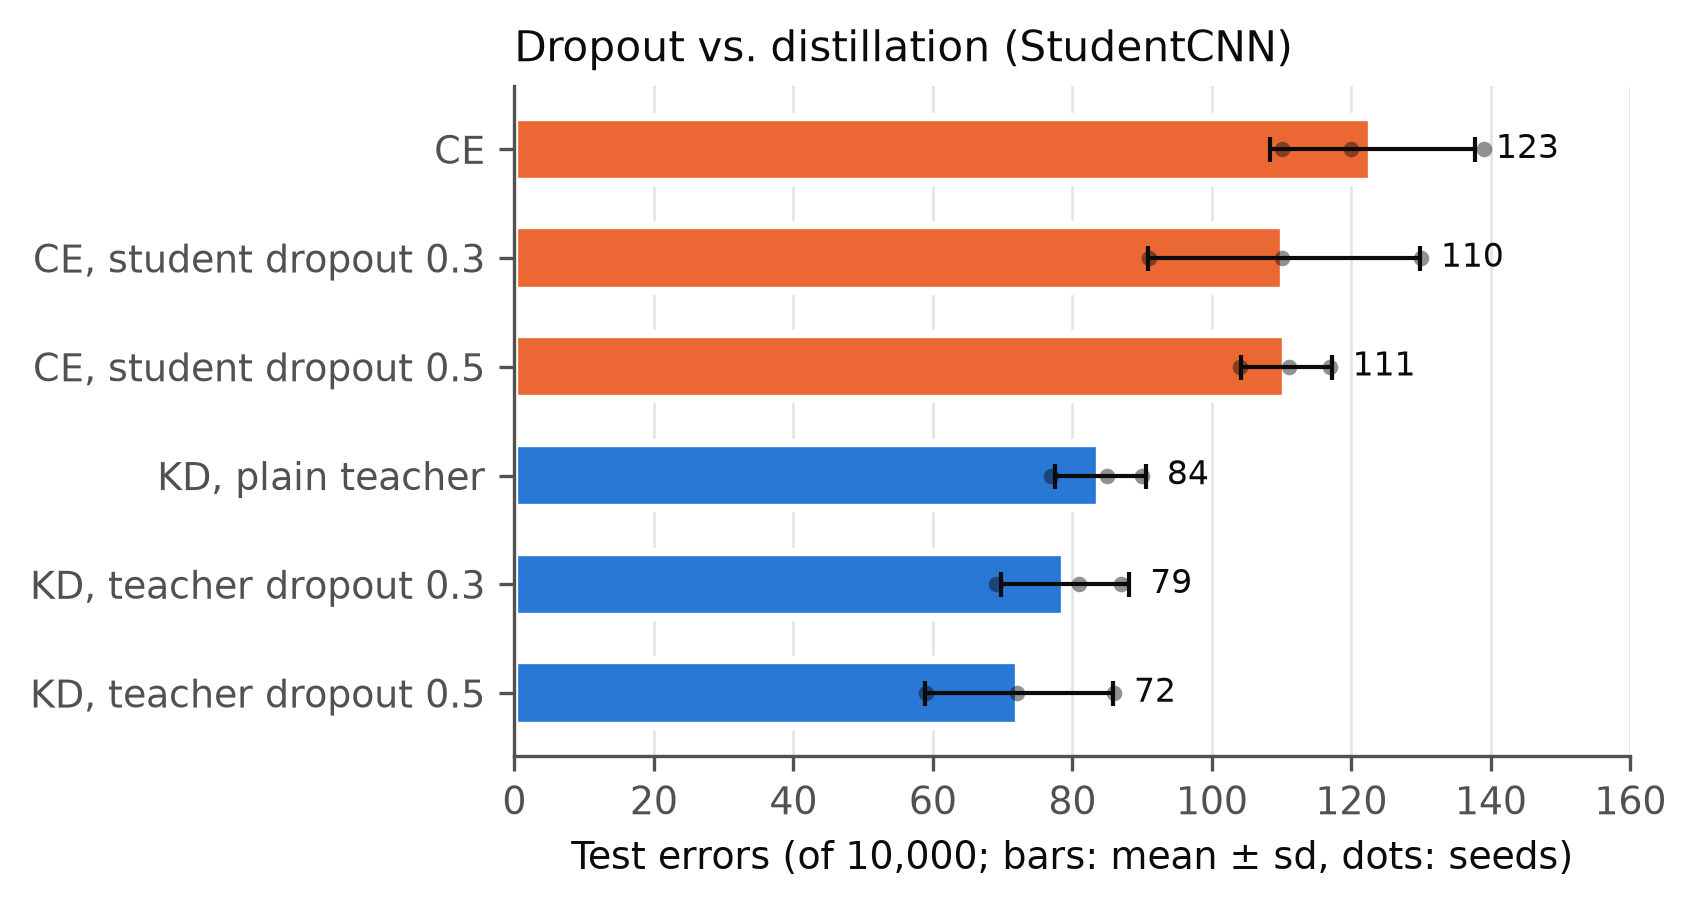
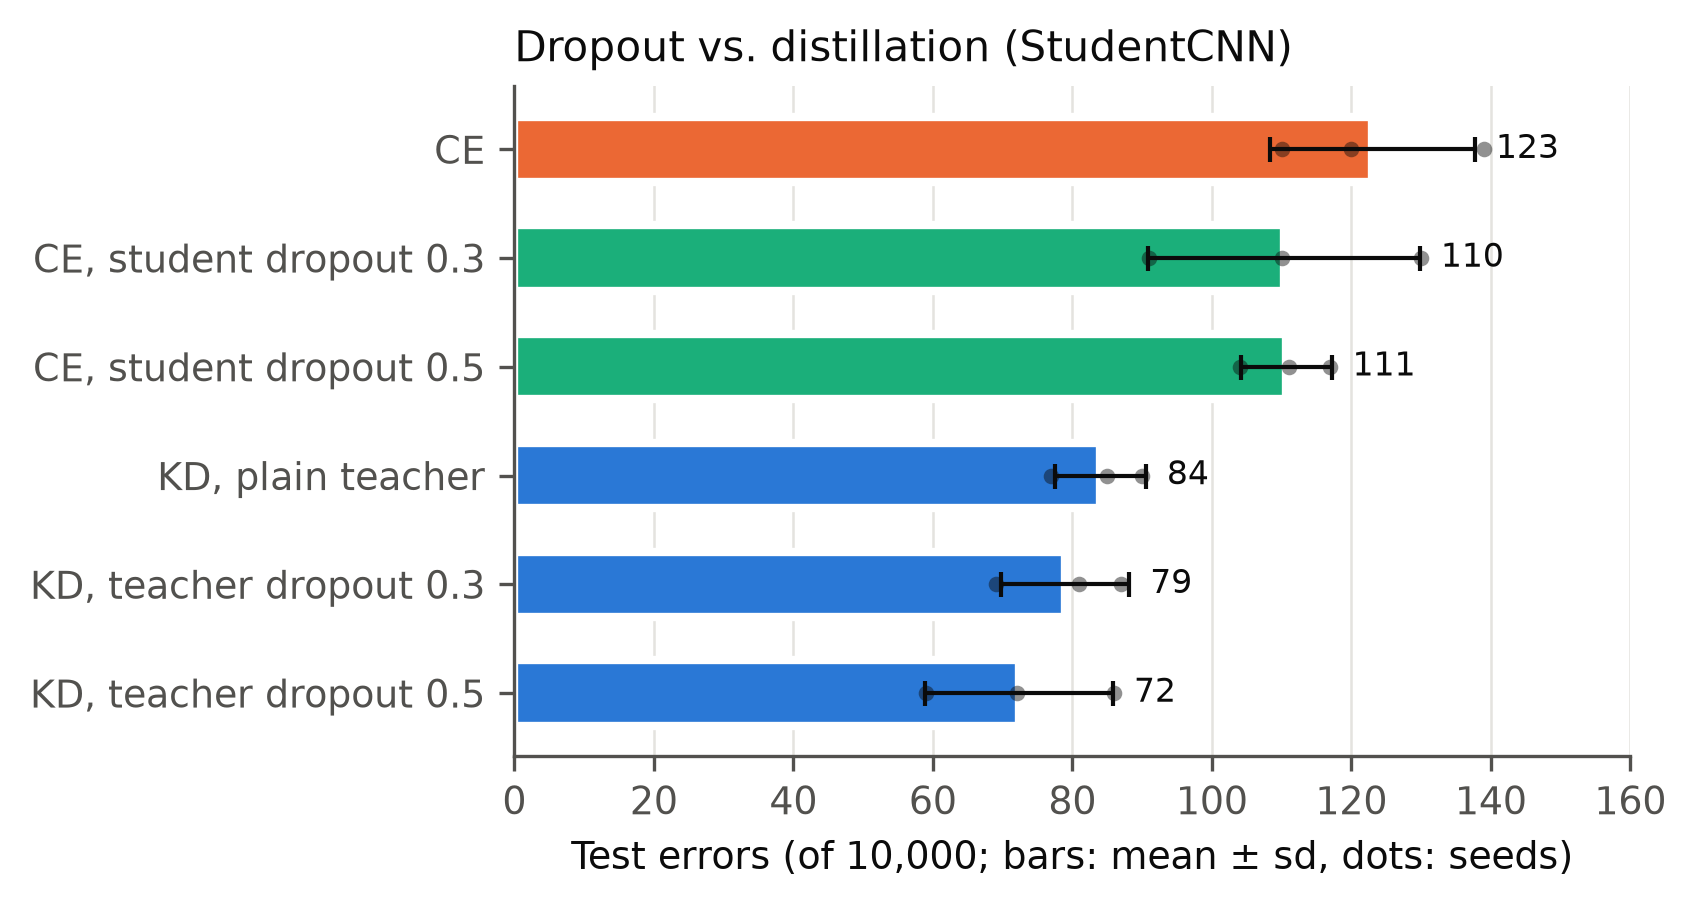
"modified figures and plot_results.py in experiments/expA"

Changed region(s): [[0.2812, 0.37, 0.7812, 0.4626], [0.2812, 0.2467, 0.7812, 0.3392]]

diff --git a/experiments/expA/plot_results.py b/experiments/expA/plot_results.py
@@ -33,7 +33,7 @@ OMITTED_DIGIT = 1
 COLORS = {
     "kd": "#2a78d6",       # blue
     "ce": "#eb6834",       # orange
-    "kd_t20": "#1baf7a",   # aqua (second KD setting in the missing-digit figure)
+    "ce_dropout": "#1baf7a",  # aqua: CE with dropout in the student
 }
 INK = "#0b0b0b"
 INK_SECONDARY = "#52514e"
@@ -161,7 +161,7 @@ def fig_training_curves(rows):
     groups = [
         ("CE", COLORS["ce"], "-",
          select(rows, method="ce", student="StudentCNN", exclude_classes="", dropout="")),
-        ("CE + dropout 0.5", COLORS["ce"], ":",
+        ("CE + dropout 0.5", COLORS["ce_dropout"], "-",
          select(rows, method="ce", student="StudentCNNDropout", dropout="0.5")),
         ("KD, T = 4", COLORS["kd"], "-",
          select(rows, method="kd", student="StudentCNN", T=4.0, exclude_classes="",
@@ -201,7 +201,7 @@ def fig_missing_digit(rows):
          select(rows, method="ce", student="StudentCNN", exclude_classes=exc)),
         ("KD, T = 4", COLORS["kd"],
          select(rows, method="kd", student="StudentCNN", T=4.0, exclude_classes=exc)),
-        ("KD, T = 20", COLORS["kd_t20"],
+        ("KD, T = 20", COLORS["kd"],
          select(rows, method="kd", student="StudentCNN", T=20.0, exclude_classes=exc)),
     ]
     for label, _, g in groups:
@@ -276,9 +276,9 @@ def fig_dropout(rows):
     groups = [
         ("CE", "ce", select(rows, method="ce", student="StudentCNN", exclude_classes="",
                             dropout="")),
-        ("CE, student dropout 0.3", "ce",
+        ("CE, student dropout 0.3", "ce_dropout",
          select(rows, method="ce", student="StudentCNNDropout", dropout="0.3")),
-        ("CE, student dropout 0.5", "ce",
+        ("CE, student dropout 0.5", "ce_dropout",
          select(rows, method="ce", student="StudentCNNDropout", dropout="0.5")),
         ("KD, plain teacher", "kd",
          select(rows, method="kd", student="StudentCNN", T=4.0, exclude_classes="",
